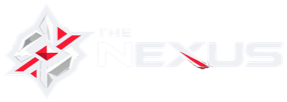
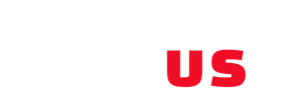
새 브랜드 로고 적용 (THE NEXUS 워드마크 + TN 마크)
- 라이트모드 워드마크 nexus-desktop.png    (283x102, 8KB)
- 다크모드  워드마크 nexus-desktop-dark.png (283x102, 7KB)
- 헤더 아이콘·파비콘·로딩 마크 nexus-icon.png (50x50, 567바이트)
- 로딩 화면 마크도 새 브랜드로 (옛 nexus-mark.png 27KB 제거)

⚠ DB에 업로드된 옛 로고가 파일보다 우선 쓰이므로 supabase/fix6_drop_uploaded_logos.sql
  실행이 필요하다. 실행하면 매 방문 60KB 전송도 함께 사라진다.

Changed region(s): [[0.5654, 0.4706, 0.8763, 0.8529], [0.0283, 0.1471, 0.2827, 0.8824]]

diff --git a/cards.html b/cards.html
@@ -8,7 +8,7 @@
   <script>document.documentElement.dataset.theme = localStorage.getItem("lck_theme") || "dark";</script>
   <link rel="icon" type="image/png" href="assets/brand/nexus-icon.png">
   <link rel="preconnect" href="https://ckbxvhdvhczpxtgkpbsv.supabase.co" crossorigin>
-  <link rel="stylesheet" href="assets/styles.css?v=20260807g">
+  <link rel="stylesheet" href="assets/styles.css?v=20260807h">
   <style>
     .studio-preview { display:flex; justify-content:center; padding:16px;
       background:var(--bg); border-radius:10px; }
@@ -54,12 +54,12 @@
     </div>
   </main>
 
-  <script src="assets/data.js?v=20260807g"></script>
-  <script src="assets/vendor/supabase.min.js?v=20260807g"></script>
-  <script src="assets/store.js?v=20260807g"></script>
-  <script src="assets/app.js?v=20260807g"></script>
-  <script src="assets/race.js?v=20260807g"></script>
-  <script src="assets/cards.js?v=20260807g"></script>
+  <script src="assets/data.js?v=20260807h"></script>
+  <script src="assets/vendor/supabase.min.js?v=20260807h"></script>
+  <script src="assets/store.js?v=20260807h"></script>
+  <script src="assets/app.js?v=20260807h"></script>
+  <script src="assets/race.js?v=20260807h"></script>
+  <script src="assets/cards.js?v=20260807h"></script>
   <script>
   // 인증 상태가 확정된 뒤에 게이트를 판정해야 하므로 storeFresh 를 기다린다 (admin.html 과 동일)
   storeFresh.then(() => {

diff --git a/player.html b/player.html
@@ -17,7 +17,7 @@
   <meta name="twitter:card" content="summary">
   <link rel="icon" type="image/png" href="assets/brand/nexus-icon.png">
   <link rel="preconnect" href="https://ckbxvhdvhczpxtgkpbsv.supabase.co" crossorigin>
-  <link rel="stylesheet" href="assets/styles.css?v=20260807g">
+  <link rel="stylesheet" href="assets/styles.css?v=20260807h">
 </head>
 <body>
   <div class="team-hero" id="player-hero"></div>
@@ -69,12 +69,12 @@
     </div>
   </main>
 
-  <script src="assets/data.js?v=20260807g"></script>
-  <script src="assets/vendor/supabase.min.js?v=20260807g"></script>
-  <script src="assets/store.js?v=20260807g"></script>
-  <script src="assets/app.js?v=20260807g"></script>
-  <script src="assets/ddragon.js?v=20260807g"></script>
-  <script src="assets/player-photos.js?v=20260807g"></script>
+  <script src="assets/data.js?v=20260807h"></script>
+  <script src="assets/vendor/supabase.min.js?v=20260807h"></script>
+  <script src="assets/store.js?v=20260807h"></script>
+  <script src="assets/app.js?v=20260807h"></script>
+  <script src="assets/ddragon.js?v=20260807h"></script>
+  <script src="assets/player-photos.js?v=20260807h"></script>
   <script>
   storeReady.then(async () => {
     const player = getPlayer(new URLSearchParams(location.search).get("id")) || getPlayers()[0];

diff --git a/awards.html b/awards.html
@@ -18,7 +18,7 @@
   <link rel="icon" type="image/png" href="assets/brand/nexus-icon.png">
   <link rel="preconnect" href="https://ckbxvhdvhczpxtgkpbsv.supabase.co" crossorigin>
   <link rel="preconnect" href="https://ddragon.leagueoflegends.com" crossorigin>
-  <link rel="stylesheet" href="assets/styles.css?v=20260807g">
+  <link rel="stylesheet" href="assets/styles.css?v=20260807h">
 </head>
 <body>
   <main class="page">
@@ -73,12 +73,12 @@
     </div>
   </main>
 
-  <script src="assets/data.js?v=20260807g"></script>
-  <script src="assets/vendor/supabase.min.js?v=20260807g"></script>
-  <script src="assets/store.js?v=20260807g"></script>
-  <script src="assets/app.js?v=20260807g"></script>
-  <script src="assets/player-photos.js?v=20260807g"></script>
-  <script src="assets/ddragon.js?v=20260807g"></script>
+  <script src="assets/data.js?v=20260807h"></script>
+  <script src="assets/vendor/supabase.min.js?v=20260807h"></script>
+  <script src="assets/store.js?v=20260807h"></script>
+  <script src="assets/app.js?v=20260807h"></script>
+  <script src="assets/player-photos.js?v=20260807h"></script>
+  <script src="assets/ddragon.js?v=20260807h"></script>
   <script>
   storeReady.then(async () => {
     renderHeader("수상", null);

diff --git a/live.html b/live.html
@@ -18,7 +18,7 @@
   <link rel="icon" type="image/png" href="assets/brand/nexus-icon.png">
   <link rel="preconnect" href="https://ckbxvhdvhczpxtgkpbsv.supabase.co" crossorigin>
   <link rel="preconnect" href="https://ddragon.leagueoflegends.com" crossorigin>
-  <link rel="stylesheet" href="assets/styles.css?v=20260807g">
+  <link rel="stylesheet" href="assets/styles.css?v=20260807h">
 </head>
 <body>
   <main class="page">
@@ -96,12 +96,12 @@
     </div>
   </main>
 
-  <script src="assets/data.js?v=20260807g"></script>
-  <script src="assets/vendor/supabase.min.js?v=20260807g"></script>
-  <script src="assets/store.js?v=20260807g"></script>
-  <script src="assets/app.js?v=20260807g"></script>
-  <script src="assets/ddragon.js?v=20260807g"></script>
-  <script src="assets/race.js?v=20260807g"></script>
+  <script src="assets/data.js?v=20260807h"></script>
+  <script src="assets/vendor/supabase.min.js?v=20260807h"></script>
+  <script src="assets/store.js?v=20260807h"></script>
+  <script src="assets/app.js?v=20260807h"></script>
+  <script src="assets/ddragon.js?v=20260807h"></script>
+  <script src="assets/race.js?v=20260807h"></script>
   <script>
   storeReady.then(async () => {
     renderHeader("오늘의 경기", null);

diff --git a/admin.html b/admin.html
@@ -14,7 +14,7 @@
   <link rel="icon" type="image/png" href="assets/brand/nexus-icon.png">
   <link rel="preconnect" href="https://ckbxvhdvhczpxtgkpbsv.supabase.co" crossorigin>
   <link rel="preconnect" href="https://ddragon.leagueoflegends.com" crossorigin>
-  <link rel="stylesheet" href="assets/styles.css?v=20260807g">
+  <link rel="stylesheet" href="assets/styles.css?v=20260807h">
 </head>
 <body>
   <main class="page">
@@ -323,11 +323,11 @@
     </div>
   </main>
 
-  <script src="assets/data.js?v=20260807g"></script>
-  <script src="assets/vendor/supabase.min.js?v=20260807g"></script>
-  <script src="assets/store.js?v=20260807g"></script>
-  <script src="assets/app.js?v=20260807g"></script>
-  <script src="assets/ddragon.js?v=20260807g"></script>
+  <script src="assets/data.js?v=20260807h"></script>
+  <script src="assets/vendor/supabase.min.js?v=20260807h"></script>
+  <script src="assets/store.js?v=20260807h"></script>
+  <script src="assets/app.js?v=20260807h"></script>
+  <script src="assets/ddragon.js?v=20260807h"></script>
   <script>
   storeFresh.then(async () => {
     renderHeader(null, null);

diff --git a/players.html b/players.html
@@ -17,7 +17,7 @@
   <meta name="twitter:card" content="summary">
   <link rel="icon" type="image/png" href="assets/brand/nexus-icon.png">
   <link rel="preconnect" href="https://ckbxvhdvhczpxtgkpbsv.supabase.co" crossorigin>
-  <link rel="stylesheet" href="assets/styles.css?v=20260807g">
+  <link rel="stylesheet" href="assets/styles.css?v=20260807h">
 </head>
 <body>
   <main class="page">
@@ -29,11 +29,11 @@
     </div>
   </main>
 
-  <script src="assets/data.js?v=20260807g"></script>
-  <script src="assets/vendor/supabase.min.js?v=20260807g"></script>
-  <script src="assets/store.js?v=20260807g"></script>
-  <script src="assets/app.js?v=20260807g"></script>
-  <script src="assets/player-photos.js?v=20260807g"></script>
+  <script src="assets/data.js?v=20260807h"></script>
+  <script src="assets/vendor/supabase.min.js?v=20260807h"></script>
+  <script src="assets/store.js?v=20260807h"></script>
+  <script src="assets/app.js?v=20260807h"></script>
+  <script src="assets/player-photos.js?v=20260807h"></script>
   <script>
   storeReady.then(async () => {
     renderHeader("선수", null);

diff --git a/race.html b/race.html
@@ -17,7 +17,7 @@
   <meta name="twitter:card" content="summary">
   <link rel="icon" type="image/png" href="assets/brand/nexus-icon.png">
   <link rel="preconnect" href="https://ckbxvhdvhczpxtgkpbsv.supabase.co" crossorigin>
-  <link rel="stylesheet" href="assets/styles.css?v=20260807g">
+  <link rel="stylesheet" href="assets/styles.css?v=20260807h">
 </head>
 <body>
   <main class="page">
@@ -60,11 +60,11 @@
     </div>
   </main>
 
-  <script src="assets/data.js?v=20260807g"></script>
-  <script src="assets/vendor/supabase.min.js?v=20260807g"></script>
-  <script src="assets/store.js?v=20260807g"></script>
-  <script src="assets/app.js?v=20260807g"></script>
-  <script src="assets/race.js?v=20260807g"></script>
+  <script src="assets/data.js?v=20260807h"></script>
+  <script src="assets/vendor/supabase.min.js?v=20260807h"></script>
+  <script src="assets/store.js?v=20260807h"></script>
+  <script src="assets/app.js?v=20260807h"></script>
+  <script src="assets/race.js?v=20260807h"></script>
   <script>
   storeReady.then(() => {
     renderHeader("경우의 수", null);

diff --git a/team.html b/team.html
@@ -17,7 +17,7 @@
   <meta name="twitter:card" content="summary">
   <link rel="icon" type="image/png" href="assets/brand/nexus-icon.png">
   <link rel="preconnect" href="https://ckbxvhdvhczpxtgkpbsv.supabase.co" crossorigin>
-  <link rel="stylesheet" href="assets/styles.css?v=20260807g">
+  <link rel="stylesheet" href="assets/styles.css?v=20260807h">
 </head>
 <body>
   <div class="team-hero" id="team-hero"></div>
@@ -62,11 +62,11 @@
     </div>
   </main>
 
-  <script src="assets/data.js?v=20260807g"></script>
-  <script src="assets/vendor/supabase.min.js?v=20260807g"></script>
-  <script src="assets/store.js?v=20260807g"></script>
-  <script src="assets/app.js?v=20260807g"></script>
-  <script src="assets/board.js?v=20260807g"></script>
+  <script src="assets/data.js?v=20260807h"></script>
+  <script src="assets/vendor/supabase.min.js?v=20260807h"></script>
+  <script src="assets/store.js?v=20260807h"></script>
+  <script src="assets/app.js?v=20260807h"></script>
+  <script src="assets/board.js?v=20260807h"></script>
   <script>initTeamPage();</script>
 </body>
 </html>

diff --git a/community.html b/community.html
@@ -17,7 +17,7 @@
   <meta name="twitter:card" content="summary">
   <link rel="icon" type="image/png" href="assets/brand/nexus-icon.png">
   <link rel="preconnect" href="https://ckbxvhdvhczpxtgkpbsv.supabase.co" crossorigin>
-  <link rel="stylesheet" href="assets/styles.css?v=20260807g">
+  <link rel="stylesheet" href="assets/styles.css?v=20260807h">
 </head>
 <body>
   <main class="page">
@@ -48,11 +48,11 @@
     </div>
   </main>
 
-  <script src="assets/data.js?v=20260807g"></script>
-  <script src="assets/vendor/supabase.min.js?v=20260807g"></script>
-  <script src="assets/store.js?v=20260807g"></script>
-  <script src="assets/app.js?v=20260807g"></script>
-  <script src="assets/board.js?v=20260807g"></script>
+  <script src="assets/data.js?v=20260807h"></script>
+  <script src="assets/vendor/supabase.min.js?v=20260807h"></script>
+  <script src="assets/store.js?v=20260807h"></script>
+  <script src="assets/app.js?v=20260807h"></script>
+  <script src="assets/board.js?v=20260807h"></script>
   <script>initCommunityPage();</script>
 </body>
 </html>

diff --git a/write.html b/write.html
@@ -13,7 +13,7 @@
   <meta name="twitter:card" content="summary">
   <link rel="icon" type="image/png" href="assets/brand/nexus-icon.png">
   <link rel="preconnect" href="https://ckbxvhdvhczpxtgkpbsv.supabase.co" crossorigin>
-  <link rel="stylesheet" href="assets/styles.css?v=20260807g">
+  <link rel="stylesheet" href="assets/styles.css?v=20260807h">
 </head>
 <body>
   <main class="page">
@@ -90,11 +90,11 @@
     </div>
   </main>
 
-  <script src="assets/data.js?v=20260807g"></script>
-  <script src="assets/vendor/supabase.min.js?v=20260807g"></script>
-  <script src="assets/store.js?v=20260807g"></script>
-  <script src="assets/app.js?v=20260807g"></script>
-  <script src="assets/board.js?v=20260807g"></script>
+  <script src="assets/data.js?v=20260807h"></script>
+  <script src="assets/vendor/supabase.min.js?v=20260807h"></script>
+  <script src="assets/store.js?v=20260807h"></script>
+  <script src="assets/app.js?v=20260807h"></script>
+  <script src="assets/board.js?v=20260807h"></script>
   <script>initWritePage();</script>
 </body>
 </html>

diff --git a/post.html b/post.html
@@ -17,7 +17,7 @@
   <meta name="twitter:card" content="summary">
   <link rel="icon" type="image/png" href="assets/brand/nexus-icon.png">
   <link rel="preconnect" href="https://ckbxvhdvhczpxtgkpbsv.supabase.co" crossorigin>
-  <link rel="stylesheet" href="assets/styles.css?v=20260807g">
+  <link rel="stylesheet" href="assets/styles.css?v=20260807h">
 </head>
 <body>
   <main class="page">
@@ -45,11 +45,11 @@
     </div>
   </main>
 
-  <script src="assets/data.js?v=20260807g"></script>
-  <script src="assets/vendor/supabase.min.js?v=20260807g"></script>
-  <script src="assets/store.js?v=20260807g"></script>
-  <script src="assets/app.js?v=20260807g"></script>
-  <script src="assets/board.js?v=20260807g"></script>
+  <script src="assets/data.js?v=20260807h"></script>
+  <script src="assets/vendor/supabase.min.js?v=20260807h"></script>
+  <script src="assets/store.js?v=20260807h"></script>
+  <script src="assets/app.js?v=20260807h"></script>
+  <script src="assets/board.js?v=20260807h"></script>
   <script>initPostPage();</script>
 </body>
 </html>

diff --git a/predict.html b/predict.html
@@ -17,7 +17,7 @@
   <meta name="twitter:card" content="summary">
   <link rel="icon" type="image/png" href="assets/brand/nexus-icon.png">
   <link rel="preconnect" href="https://ckbxvhdvhczpxtgkpbsv.supabase.co" crossorigin>
-  <link rel="stylesheet" href="assets/styles.css?v=20260807g">
+  <link rel="stylesheet" href="assets/styles.css?v=20260807h">
 </head>
 <body>
   <main class="page">
@@ -69,10 +69,10 @@
     </div>
   </main>
 
-  <script src="assets/data.js?v=20260807g"></script>
-  <script src="assets/vendor/supabase.min.js?v=20260807g"></script>
-  <script src="assets/store.js?v=20260807g"></script>
-  <script src="assets/app.js?v=20260807g"></script>
+  <script src="assets/data.js?v=20260807h"></script>
+  <script src="assets/vendor/supabase.min.js?v=20260807h"></script>
+  <script src="assets/store.js?v=20260807h"></script>
+  <script src="assets/app.js?v=20260807h"></script>
   <script>
   storeReady.then(async () => {
     renderHeader("승부예측", null);
